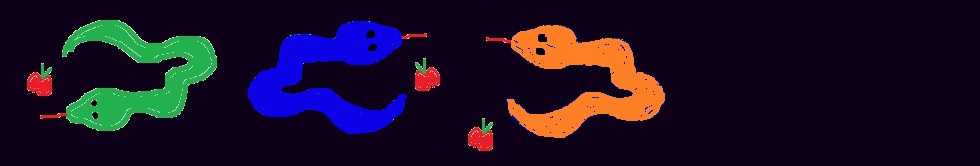
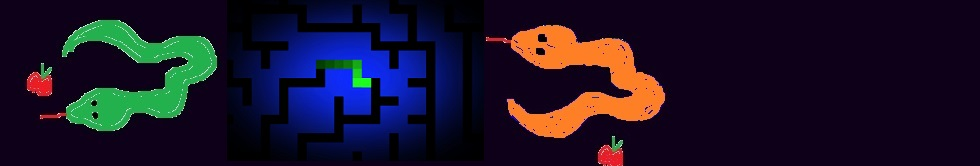
blblblb

Changed region(s): [[0.2143, 0.0, 0.5204, 0.9639], [0.5816, 0.8133, 0.6429, 1.0], [0.2143, 0.8735, 0.2755, 0.9639]]

diff --git a/P_LabWeb/public/src/html/infos.html b/P_LabWeb/public/src/html/infos.html
@@ -29,9 +29,11 @@
             <div id="content">
                 <section class="title infosTitle">
                     <h2>Informations</h2>
-                    <p>Ce site a été créé par Clément Sartoni, étudiant en informatique actuellement en première année à l'ETML, l'École technique des métiers de Lausanne.</p>
-                    <p>Ce site a été crée dans le cadre du projet de fin d'année, dans le but d'améliorer mes compétences de programmation dans un nouvel environnement, 
-                        le Javascript, et de valider celles de création de sites web.</p>
+                    <p>Je m'appelle Clément Sartoni, étudiant en informatique actuellement en deuxième année à l'ETML, l'École technique des métiers de Lausanne.</p>
+                    <p>Ce site a été crée dans le cadre du projet de fin de la première année, dans le but d'améliorer mes compétences de programmation dans un nouvel environnement, 
+                        le Javascript, et de valider celles de création de sites web. Le premier jeu disponible était le Snake</p>
+                    <p>Le deuxième jeu du labyrinthe a été ajouté au site lors d'un projet d'algorithmie, au début de la deuxième année. Ce projet a été réalisé avec mon collègue Santiago Sugrañes.
+                    </p>
                     <p> Si vous voulez me contacter pour quelques raisons, je laisse mon adresse mail ici ainsi qu'un lien vers un autre site que j'ai fait pour parler du jeu Minecraft.
                         Il contient une nouvelle sur la vie du personnage principal, Steve, si ça vous intéresse.</p>
                 </section>
@@ -43,7 +45,7 @@
                     </tr>
                     <tr>
                         <td>Site Minecraft:</td>
-                        <td><a href="https://grp1c.section-inf.ch/clesartoni/minecraft/src/html/home.html" target="_blank">Minecraft</a></td>
+                        <td><a href="" target="_blank">Lien plus disponible</a></td>
                     </tr>
                 </table>
                 <div class="borderTitle"></div>

diff --git a/P_LabWeb/public/src/html/home.html b/P_LabWeb/public/src/html/home.html
@@ -29,16 +29,16 @@
             <div id="content">
                 <section class="title">
                     <h2>Bienvenue!</h2>
-                    <p>Sur ce site vous pourrez jouer à des jeux classiques, comme Snake, directement sur une page web. 
+                    <p>Sur ce site vous pourrez jouer à des jeux classiques, comme Snake ou le labyrinthe, directement sur une page web. 
                         Vous pourrez même jouer à deux! (sur le même clavier)
                     </p>
                 </section>
                 <div class="borderTitle"></div>
-                <div class="redirectContainerLeft" style="background-image: url(../../ressources/images/snakeRedirect.jpg);">
+                <div class="redirectContainerLeft" style="background-image: url(../../ressources/images/labyrintheRedirect.jpg);">
                     <div class="redirect">
-                        <h4>Snake</h4>
-                        <p class="redirectText">Le célèbre Snake vous attend pour manger des pommes! </p>
-                        <a class="redirectLink" href="snake.html">
+                        <h4>Labyrinthe</h4>
+                        <p class="redirectText">Échappez vous d'un labyrinthe tortueux et infini!</p>
+                        <a class="redirectLink" href="labyrinthe.html">
                             <p class="linkDecoration">></p>
                             <p class="linkText">Jouer</p>
                             <p class="linkDecoration">&lt;</p>

diff --git a/P_LabWeb/public/ressources/css/style.css b/P_LabWeb/public/ressources/css/style.css
@@ -78,7 +78,7 @@ footer{
     justify-content: left;
 }
 .redirectContainerRight{
-    justify-content: right;
+    justify-content: flex-end;
 }
 .redirectContainerLeft .redirect{
     padding: 0 15px;
